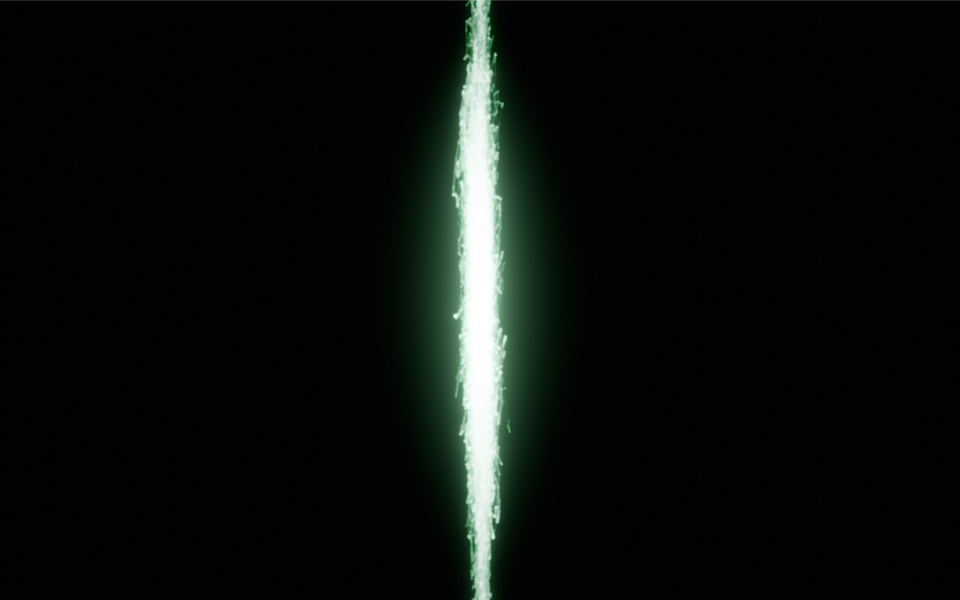
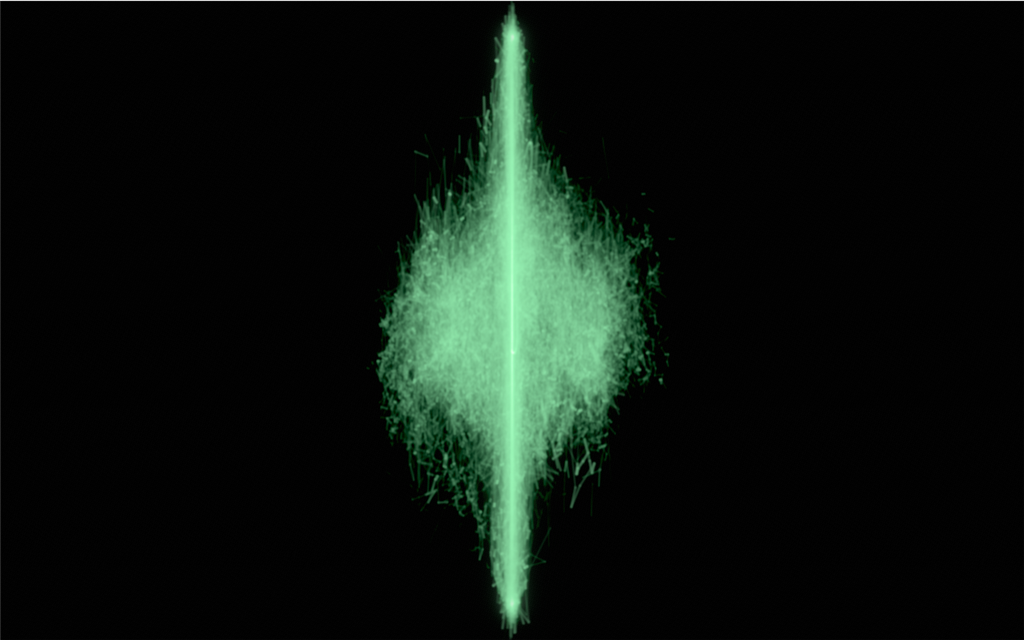
README: fix the broken screenshot table, new 0.2.0 pictures for all five visuals and the panel, stale sentences updated; strip: title and artist on one line each, truncated with an ellipsis
Claude-Session: https://claude.ai/code/session_01ATWDuGfvV8bkNcHEzpqBWj

Changed region(s): [[0.3438, 0.0, 0.6562, 1.0]]

diff --git a/crates/app/src/strip.rs b/crates/app/src/strip.rs
@@ -76,9 +76,18 @@ impl Strip {
                 _ => ("Nothing playing".to_string(), String::new()),
             };
             let text_w = (rect.width() * 0.5 - 240.0 - 90.0).max(80.0);
-            let tg = p.layout(title, theme::bold(15.0), TEXT, text_w);
+            // One line each, truncated with an ellipsis: a long title must not
+            // wrap into the artist line.
+            let one_line = |text: String, font: egui::FontId, color: egui::Color32| {
+                let mut job = egui::text::LayoutJob::simple(text, font, color, text_w);
+                job.wrap.max_rows = 1;
+                job.wrap.break_anywhere = true;
+                job.wrap.overflow_character = Some('…');
+                p.layout_job(job)
+            };
+            let tg = one_line(title, theme::bold(15.0), TEXT);
             p.galley(pos2(rect.min.x + 78.0, rect.min.y + 20.0), tg, TEXT);
-            let sg = p.layout(sub, theme::sans(12.0), TEXT_2, text_w);
+            let sg = one_line(sub, theme::sans(12.0), TEXT_2);
             p.galley(pos2(rect.min.x + 78.0, rect.min.y + 42.0), sg, TEXT_2);
 
             // Controls, centred.

diff --git a/README.md b/README.md
@@ -2,11 +2,15 @@
 
 A spacey, line-based music visualizer for whatever Windows is playing, Spotify first. Native Rust + wgpu. Not a MilkDrop clone.
 
-| Phosphor scope | Flow-field ribbons | Black hole | Kaleidoscope |
+| Phosphor scope | Flow-field ribbons | Black hole |
 |---|---|---|
-| ![scope](docs/img/scene-1.png) | ![ribbons](docs/img/scene-2.png) | ![starfield](docs/img/scene-3.png) |
+| ![Phosphor scope](docs/img/scene-1.png) | ![Flow-field ribbons](docs/img/scene-2.png) | ![Black hole](docs/img/scene-3.png) |
 
-Three scenes with cross-fades: a phosphor XY oscilloscope of the real stereo signal, chroma-steered flow-field ribbons (GPU compute), and a ray-marched black hole (lensed accretion disk, point stars). What is playing lives on the transport strip, fed by the Windows now-playing metadata. Per-process Spotify loopback with auto-reconnect, full real-time analysis (bands, loudness, onsets, predictive beat clock, chroma), bloom + AgX + auto-exposure post stack, frame cap, monitor selection, optional auto director that changes scenes on track changes, drops and quiet passages.
+| Kaleidoscope | Sigil | Settings panel |
+|---|---|---|
+| ![Kaleidoscope](docs/img/scene-4.png) | ![Sigil](docs/img/scene-5.png) | ![Settings panel](docs/img/ui-panel.png) |
+
+Five visuals, layered three at a time into scenes: a phosphor XY oscilloscope of the real stereo signal, chroma-steered flow-field ribbons (GPU compute), a ray-marched black hole (lensed accretion disk, point stars), a kaleidoscope of the album art or your own photos, and the sigil, a neon sacred-geometry glyph that redraws itself for every track. Each layer runs a chain of music-driven modifiers and takes a colour palette. What is playing lives on the transport strip, fed by the Windows now-playing metadata. Per-process Spotify loopback with auto-reconnect, full real-time analysis (bands, loudness, onsets, predictive beat clock, chroma), bloom and auto exposure with a film or neon look, frame cap, monitor selection, and an optional auto director that changes scenes on track changes, drops and quiet passages.
 
 ## Install (Windows 10 2004+ / 11, DirectX 12 or Vulkan GPU)
 
@@ -21,20 +25,20 @@ Start Spotify, play something, start audioviz. If Spotify is not running the app
 
 The window is frameless. Move the mouse and a thin bar appears at the top (scene pips, status chips, window controls) with a transport strip at the bottom (album art, previous / play-pause / next, progress, tint from album art). Both hide after three seconds of mouse rest and in fullscreen. On first run a short welcome sheet asks for the monitor, offers the tap calibration and lets you pick a scene.
 
-**Scenes, layers, visuals.** The five *visuals* (phosphor scope, flow-field ribbons, black hole, kaleidoscope: album art or your own photos behind the mirrors, and the sigil: a neon sacred-geometry glyph whose rings breathe with the bands, rays strike on onsets at the pitch class, orbs light with the chord, and which rebuilds itself on every track) are the raw material. A *layer* is one instance of a visual with its own controls, opacity, audio band and blend mode (add, or over / screen / multiply so a higher layer covers, lightens or masks the ones beneath; layer 1 is on top), and the same visual can be used more than once. A *scene* is a mix of up to three layers plus post settings and tint, saved by name; Scope, Ribbons, Starfield, Deep field, Night, Party and Studio come built in, and your own are JSON files in `%APPDATA%\audioviz\scenes\`. Each layer can react to the full mix or to one band (sub, bass, low mid, mid, presence, air, or a custom range): a scope layer set to bass draws only the bass waveform. Each layer also runs an ordered chain of *modifiers* over its picture: kaleidoscope mirrors, fractal recursion, luminescent afterglow, feedback echo, polar wrap, ripples, edges, chroma split and masks, every one of them moved by the music. Each layer can also take a colour palette (techno, neon, rave, 80s pop, galaxy and more, or your own stops): the ribbons spread a chord across it, the black hole's disk runs along it, and the palette modifier recolours anything else.
+**Scenes, layers, visuals.** The five *visuals* (phosphor scope, flow-field ribbons, black hole, kaleidoscope: album art or your own photos behind the mirrors, and the sigil: a neon sacred-geometry glyph whose rings breathe with the bands, rays strike on onsets at the pitch class, orbs light with the chord, and which rebuilds itself on every track) are the raw material. A *layer* is one instance of a visual with its own controls, opacity, audio band and blend mode (add, or over / screen / multiply so a higher layer covers, lightens or masks the ones beneath; layer 1 is on top), and the same visual can be used more than once. A *scene* is a mix of up to three layers plus post settings and tint, saved by name; Scope, Ribbons, Starfield, Deep field, Night, Party, Studio, Kaleidoscope and Sigil come built in, and your own are JSON files in `%APPDATA%\audioviz\scenes\`. Each layer can react to the full mix or to one band (sub, bass, low mid, mid, presence, air, or a custom range): a scope layer set to bass draws only the bass waveform. Each layer also runs an ordered chain of *modifiers* over its picture: kaleidoscope mirrors, fractal recursion, luminescent afterglow, feedback echo, polar wrap, ripples, edges, chroma split and masks, every one of them moved by the music. Each layer can also take a colour palette (techno, neon, rave, 80s pop, galaxy and more, or your own stops): the ribbons spread a chord across it, the black hole's disk runs along it, and the palette modifier recolours anything else.
 
 Press **Tab** for the settings panel: a docked sheet with an icon rail. Scenes; Layers (the stack of three slots, then an inspector for the one being edited with Visual, Colour and Effects tabs, each modifier opening in place); Picture (exposure, bloom, grain, scene tint); Sync (delay, calibration, which app to listen to); Display (monitor diagram, frame cap, low power, reduce flashing, chrome options); Meters (developer); About (manual update check, diagnostics to paste into a bug report). Controls remember which groups you keep open, dim at their default, and reset on a double-click.
 
 | Key | Action |
 |---|---|
-| Tab | settings panel |
-| 1 / 2 / 3 | layer to edit |
-| Space | next scene |
-| A | auto scene director |
-| C | audio-delay calibration: tap Space on the beat, Enter to apply |
-| ? | all shortcuts |
-| F11 | fullscreen on the current monitor |
-| Esc | close a sheet, else quit |
+| Tab | Settings panel |
+| 1 / 2 / 3 | Layer to edit |
+| Space | Next scene |
+| A | Auto scene director |
+| C | Audio-delay calibration: tap Space on the beat, Enter to apply |
+| ? | All shortcuts |
+| F11 | Fullscreen on the current monitor |
+| Esc | Close a sheet, else quit |
 
 The tray icon menu shows the window, switches scene, toggles the director, goes fullscreen on a chosen monitor, and quits. `audioviz --tray` starts hidden in the tray (what "start when I sign in" uses).
 
@@ -44,7 +48,7 @@ Loopback captures audio before it reaches your ears, so the visuals lead the sou
 
 **Reduce flashing** (Display) is on by default: it caps how fast the picture may brighten between frames, for photosensitive viewers. Turn it off or raise the allowed rise if you want harder strobes.
 
-Settings live in `%APPDATA%\audioviz\settings.json` (plain JSON; delete it to reset); looks in `%APPDATA%\audioviz\looks\`. `audioviz --version` prints the version; `audioviz --set key=value` changes a setting before starting.
+Settings live in `%APPDATA%\audioviz\settings.json` (plain JSON; delete it to reset); scenes you save in `%APPDATA%\audioviz\scenes\`. `audioviz --version` prints the version; `audioviz --set key=value` changes a setting before starting.
 
 ## Privacy and trust
 
@@ -62,20 +66,20 @@ cargo xtask icon                         # regenerate assets/icon.{svg,png,ico}
 scripts/release.ps1                      # installer + portable zip + checksums + winget manifests → dist/
 ```
 
-Dev overrides: `AUDIOVIZ_SCENE=n`, `AUDIOVIZ_SIZE=WxH`, `AUDIOVIZ_DEFAULTS=1` (ignore the settings file), `RUST_LOG=audioviz=debug` for a per-second stats line. `scripts/snapshot.ps1` runs the app for N seconds and captures the window to `target/snapshot.png`.
+Dev overrides: `AUDIOVIZ_SCENE=n`, `AUDIOVIZ_SIZE=WxH`, `AUDIOVIZ_DEFAULTS=1` (ignore the settings file), `AUDIOVIZ_SETTINGS='{...}'` (merge JSON into the settings for one run), `AUDIOVIZ_PANEL=<section>`, `RUST_LOG=audioviz=debug` for a per-second stats line. `scripts/snapshot.ps1` runs the app for N seconds and captures the window to `target/snapshot.png`.
 
 Releases: bump `version` in `Cargo.toml`, commit, `git tag vX.Y.Z && git push --tags`. The release workflow builds and tests on Windows and macOS, packages everything with `scripts/release.ps1`, and opens a draft GitHub release with the notes from `docs/release-notes-template.md`.
 
 ## Status and docs
 
-**v0.1.0 released 2026-10-17** (Phase 5, ship-ability). Phase briefs: `docs/phase1-spike.md` (build/run, latency protocol), `docs/phase2-analysis.md`, `docs/phase3-polish.md`, `docs/phase4-scenes.md`, `docs/phase5-ship.md`, `docs/phase6-ui.md` (UI refresh, composition model, visuals, colour; progress log at the top), `docs/phase7-controls.md` (the panel's inspector model). What is still open: `docs/ROADMAP.md`. Research in `docs/research/00-synthesis.md`; decisions in `docs/decisions/`. macOS follows the UI refresh; the core already builds there in CI with null audio/metadata backends.
+**v0.1.0 released 2026-10-17** (Phase 5, ship-ability); **0.2.0 is on `main`**, not yet tagged. Phase briefs: `docs/phase1-spike.md` (build/run, latency protocol), `docs/phase2-analysis.md`, `docs/phase3-polish.md`, `docs/phase4-scenes.md`, `docs/phase5-ship.md`, `docs/phase6-ui.md` (UI refresh, composition model, visuals, colour; progress log at the top), `docs/phase7-controls.md` (the panel's inspector model). What is still open: `docs/ROADMAP.md`. Research in `docs/research/00-synthesis.md`; decisions in `docs/decisions/`. macOS follows the UI refresh; the core already builds there in CI with null audio/metadata backends.
 
 ## Layout
 
 - `crates/audio` — `AudioSource` trait + WASAPI per-process / endpoint loopback backend
 - `crates/analysis` — `Analyzer` → `FeatureFrame` (bands, loudness, onsets, beat clock, chroma)
 - `crates/metadata` — `MetadataSource` trait + Windows SMTC backend (now playing + art)
-- `crates/app` — winit + wgpu app: `scene.rs` / `director.rs` / `post.rs`, `scenes/` (scope, ribbons, starfield), egui chrome / panel / strip in `chrome.rs`, `panel.rs`, `strip.rs`, sheets in `overlays.rs`, WGSL in `shaders/`, `build.rs` embeds the icon and version resource
+- `crates/app` — winit + wgpu app: `scene.rs` / `director.rs` / `post.rs`, `scenes/` (scope, ribbons, starfield = the black hole, kaleido, sigil), `color.rs` palettes, egui chrome / panel / strip in `chrome.rs`, `panel.rs`, `strip.rs`, sheets in `overlays.rs`, WGSL in `shaders/`, `build.rs` embeds the icon and version resource
 - `xtask` — `cargo xtask icon`
 - `installer/audioviz.iss` — Inno Setup script; `scripts/release.ps1` — packaging; `winget/` — manifest templates for a future winget submission (not submitted)
 - `.github/workflows/` — `ci.yml` (build + test on Windows and macOS, `cargo deny`), `release.yml` (tag → draft release)
